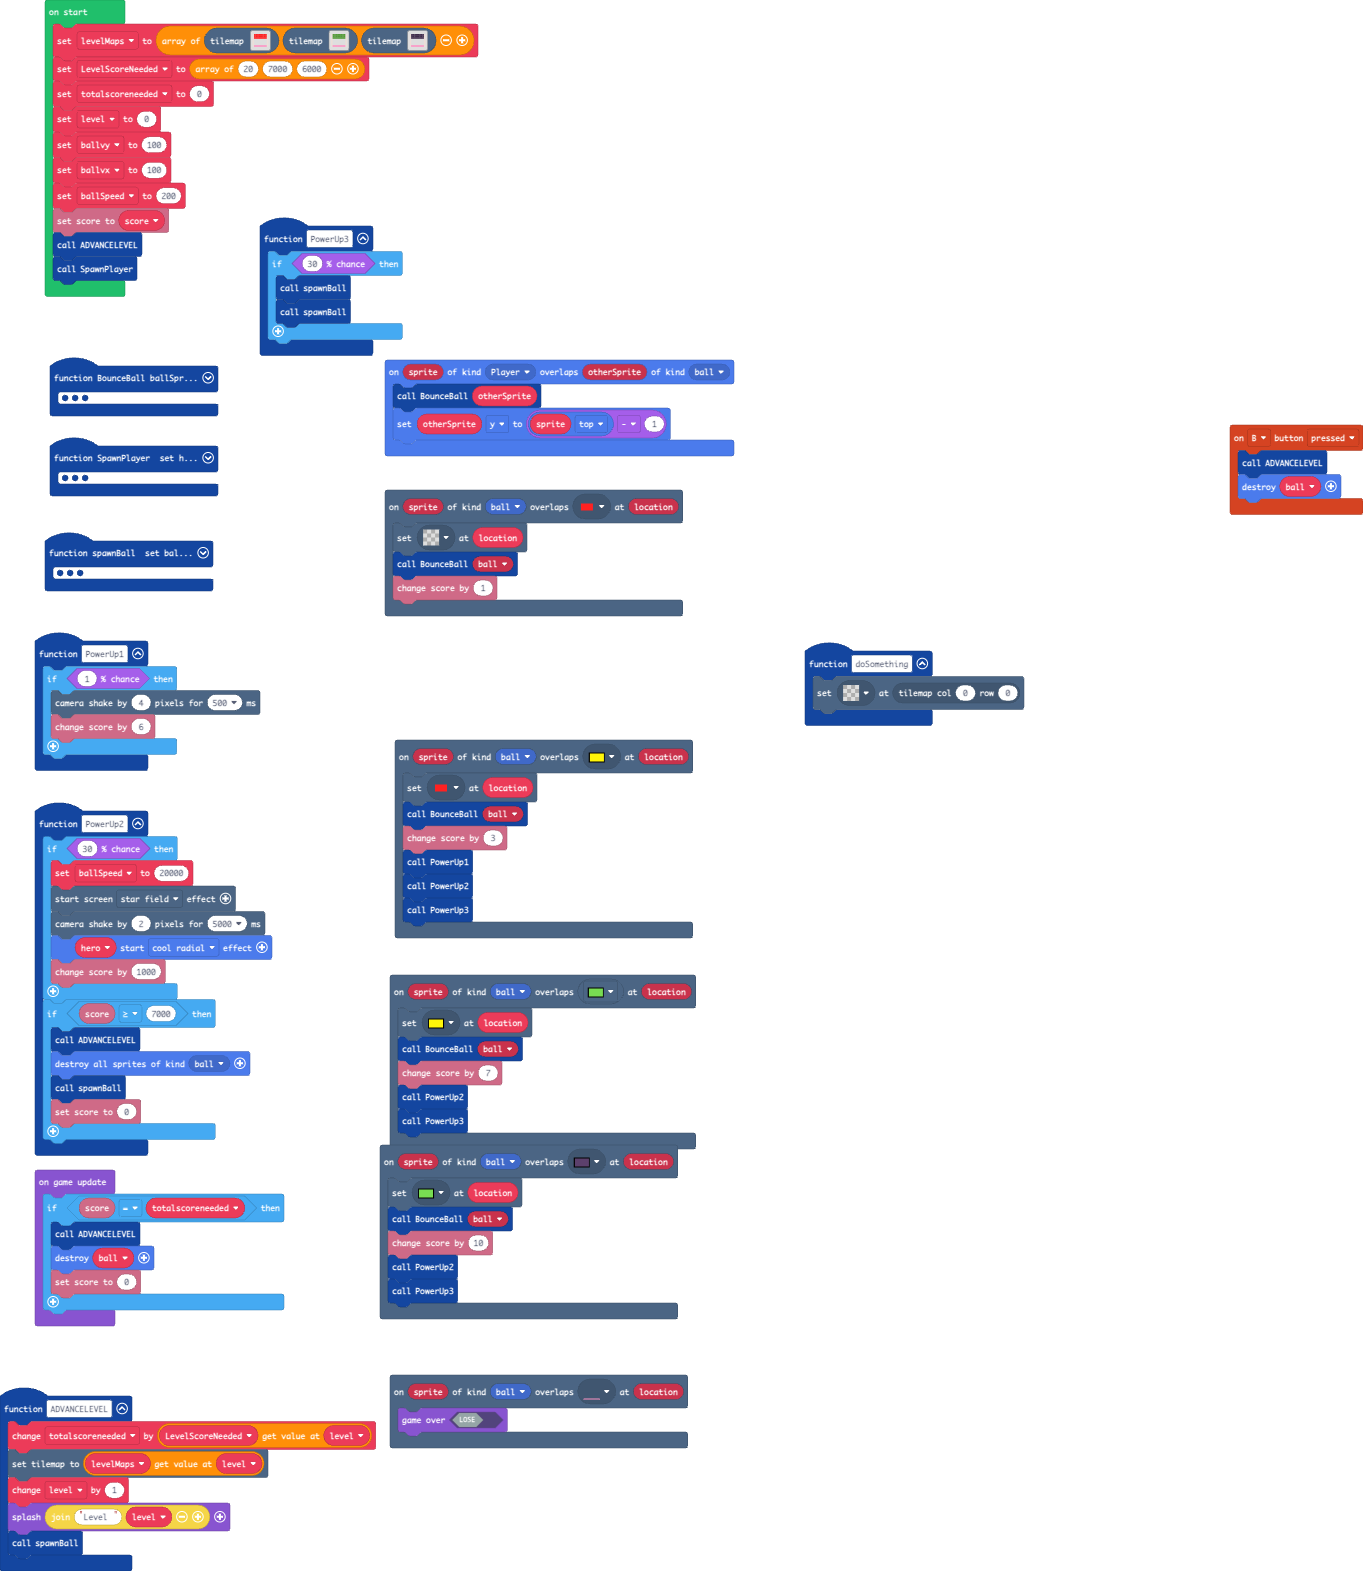
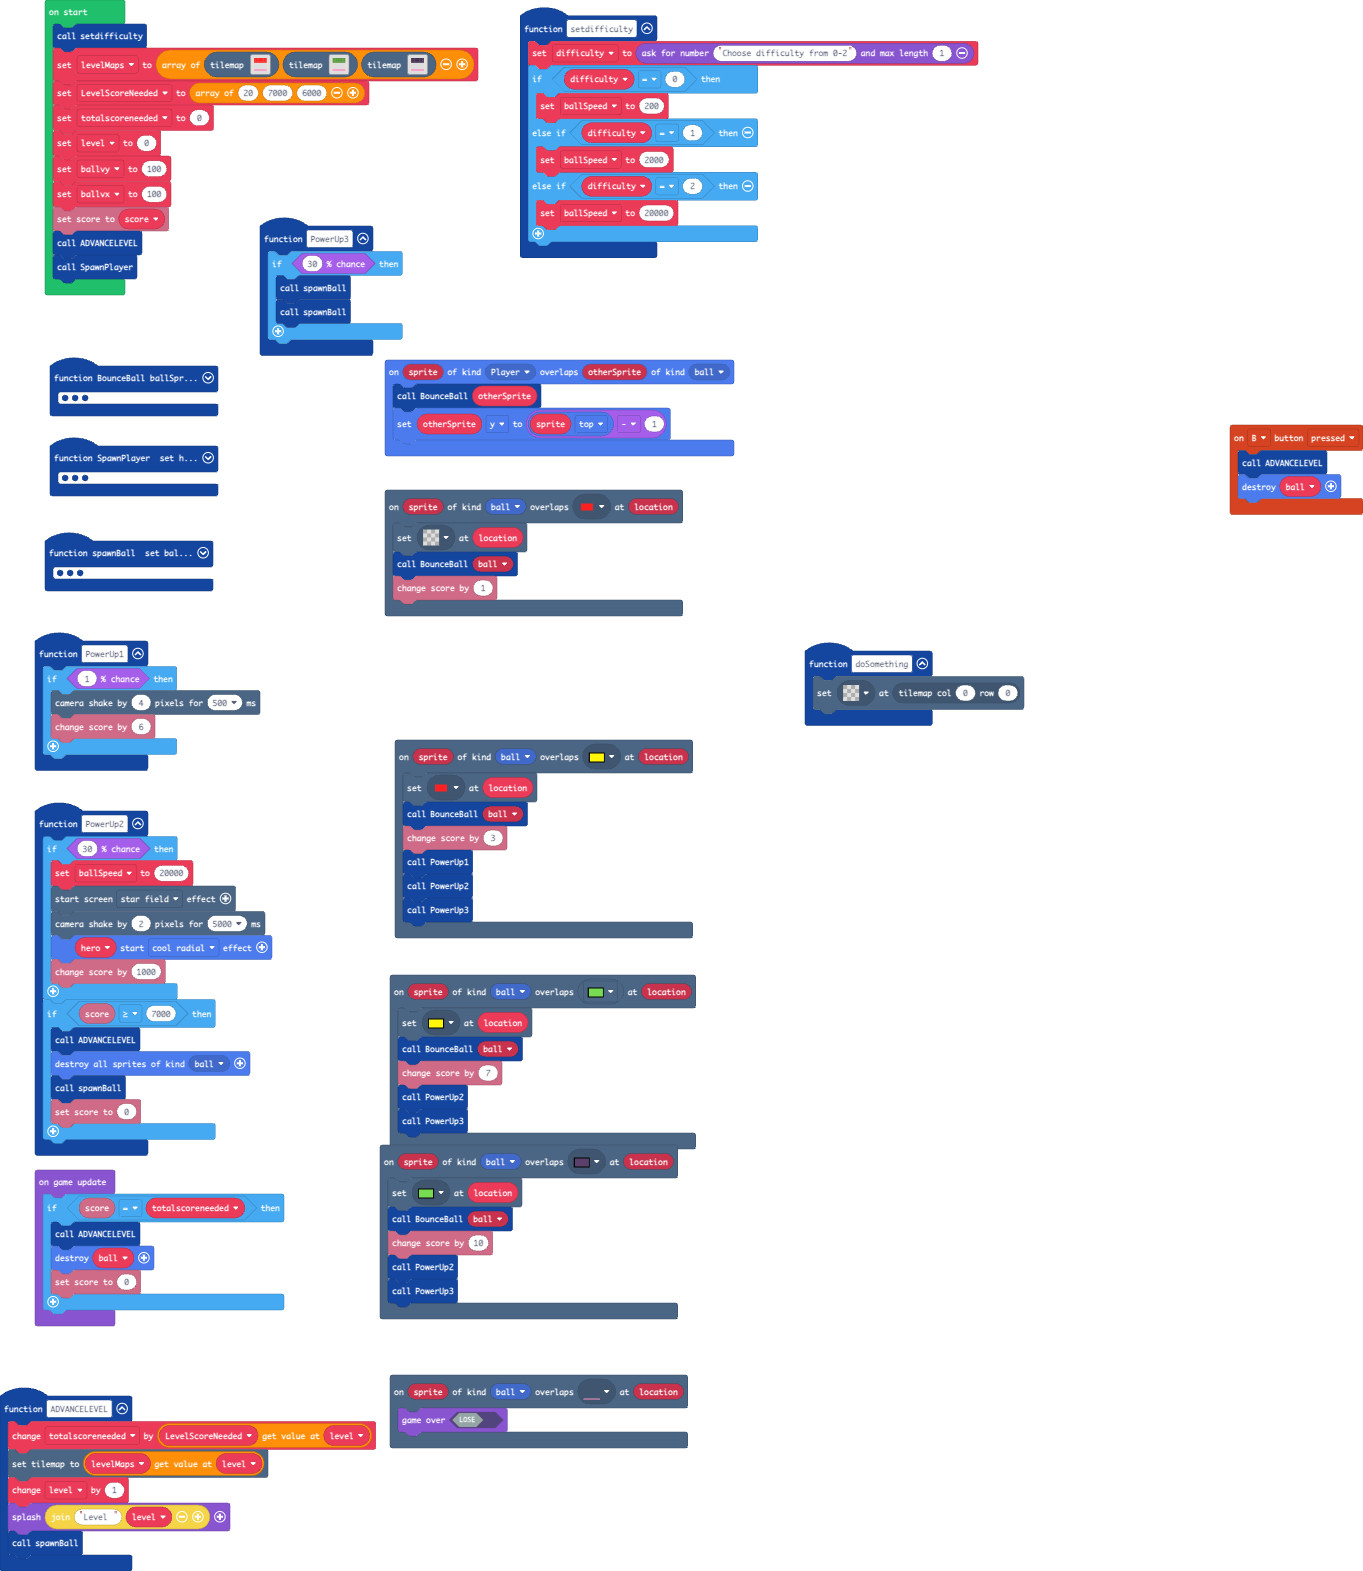
Update main.blocks, main.ts

Changed region(s): [[0.0308, 0.0, 0.7395, 0.1871]]

diff --git a/main.ts b/main.ts
@@ -74,6 +74,16 @@ function BounceBall (ballSprite: Sprite) {
     }
     ballSprite.setVelocity(ballvx, ballvy)
 }
+function setdifficulty () {
+    difficulty = game.askForNumber("Choose difficulty from 0-2", 1)
+    if (difficulty == 0) {
+        ballSpeed = 200
+    } else if (difficulty == 1) {
+        ballSpeed = 2000
+    } else if (difficulty == 2) {
+        ballSpeed = 20000
+    }
+}
 scene.onOverlapTile(SpriteKind.ball, assets.tile`myTile2`, function (sprite, location) {
     tiles.setTileAt(location, assets.tile`myTile`)
     BounceBall(ball)
@@ -118,22 +128,23 @@ sprites.onOverlap(SpriteKind.Player, SpriteKind.ball, function (sprite, otherSpr
     BounceBall(otherSprite)
     otherSprite.y = sprite.top - 1
 })
+let difficulty = 0
+let ballSpeed = 0
 let hero: Sprite = null
 let ball: Sprite = null
 let score = 0
-let ballSpeed = 0
 let ballvx = 0
 let ballvy = 0
 let level = 0
 let LevelScoreNeeded: number[] = []
 let levelMaps: tiles.TileMapData[] = []
+setdifficulty()
 levelMaps = [tilemap`level2`, tilemap`level9`, tilemap`level12`]
 LevelScoreNeeded = [20, 7000, 6000]
 let totalscoreneeded = 0
 level = 0
 ballvy = 100
 ballvx = 100
-ballSpeed = 200
 info.setScore(score)
 ADVANCELEVEL()
 SpawnPlayer()
